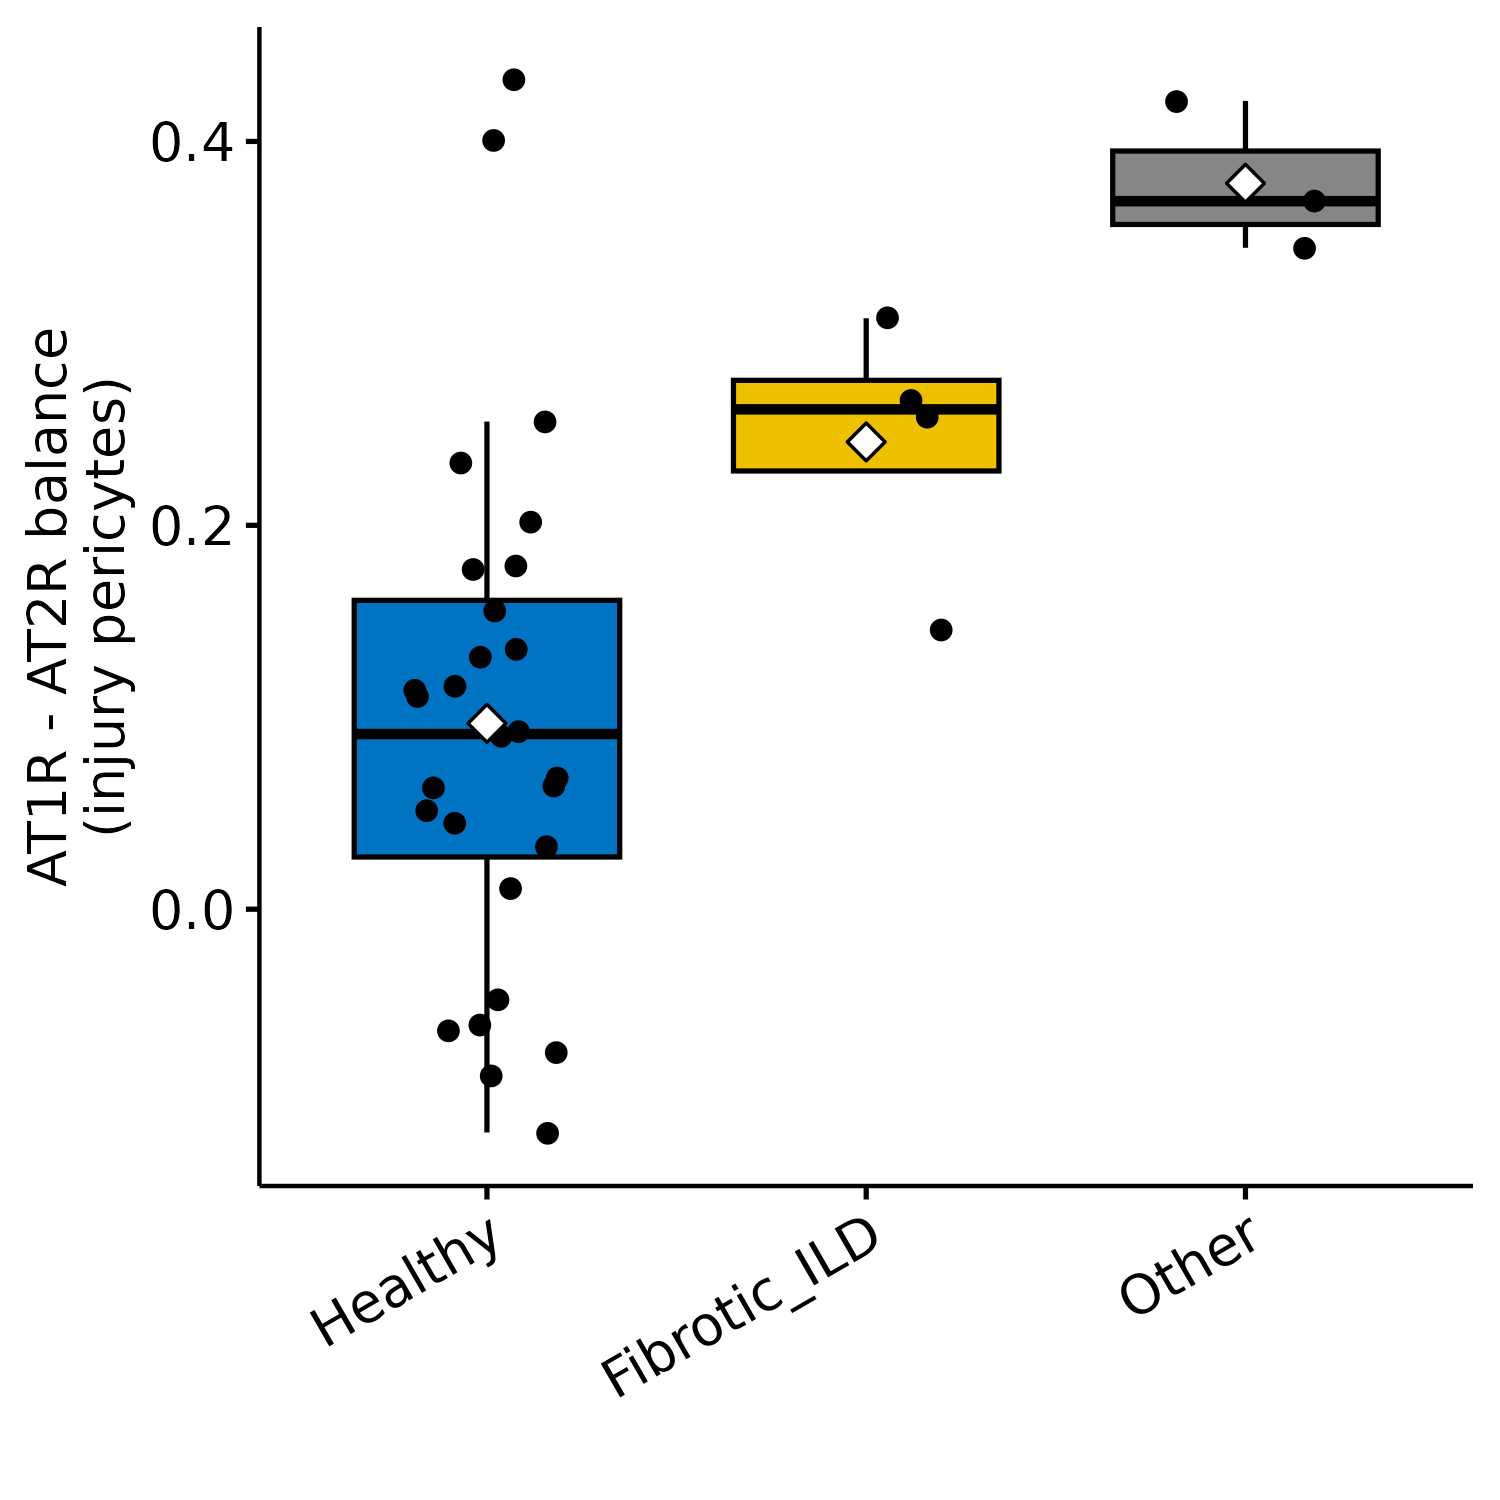
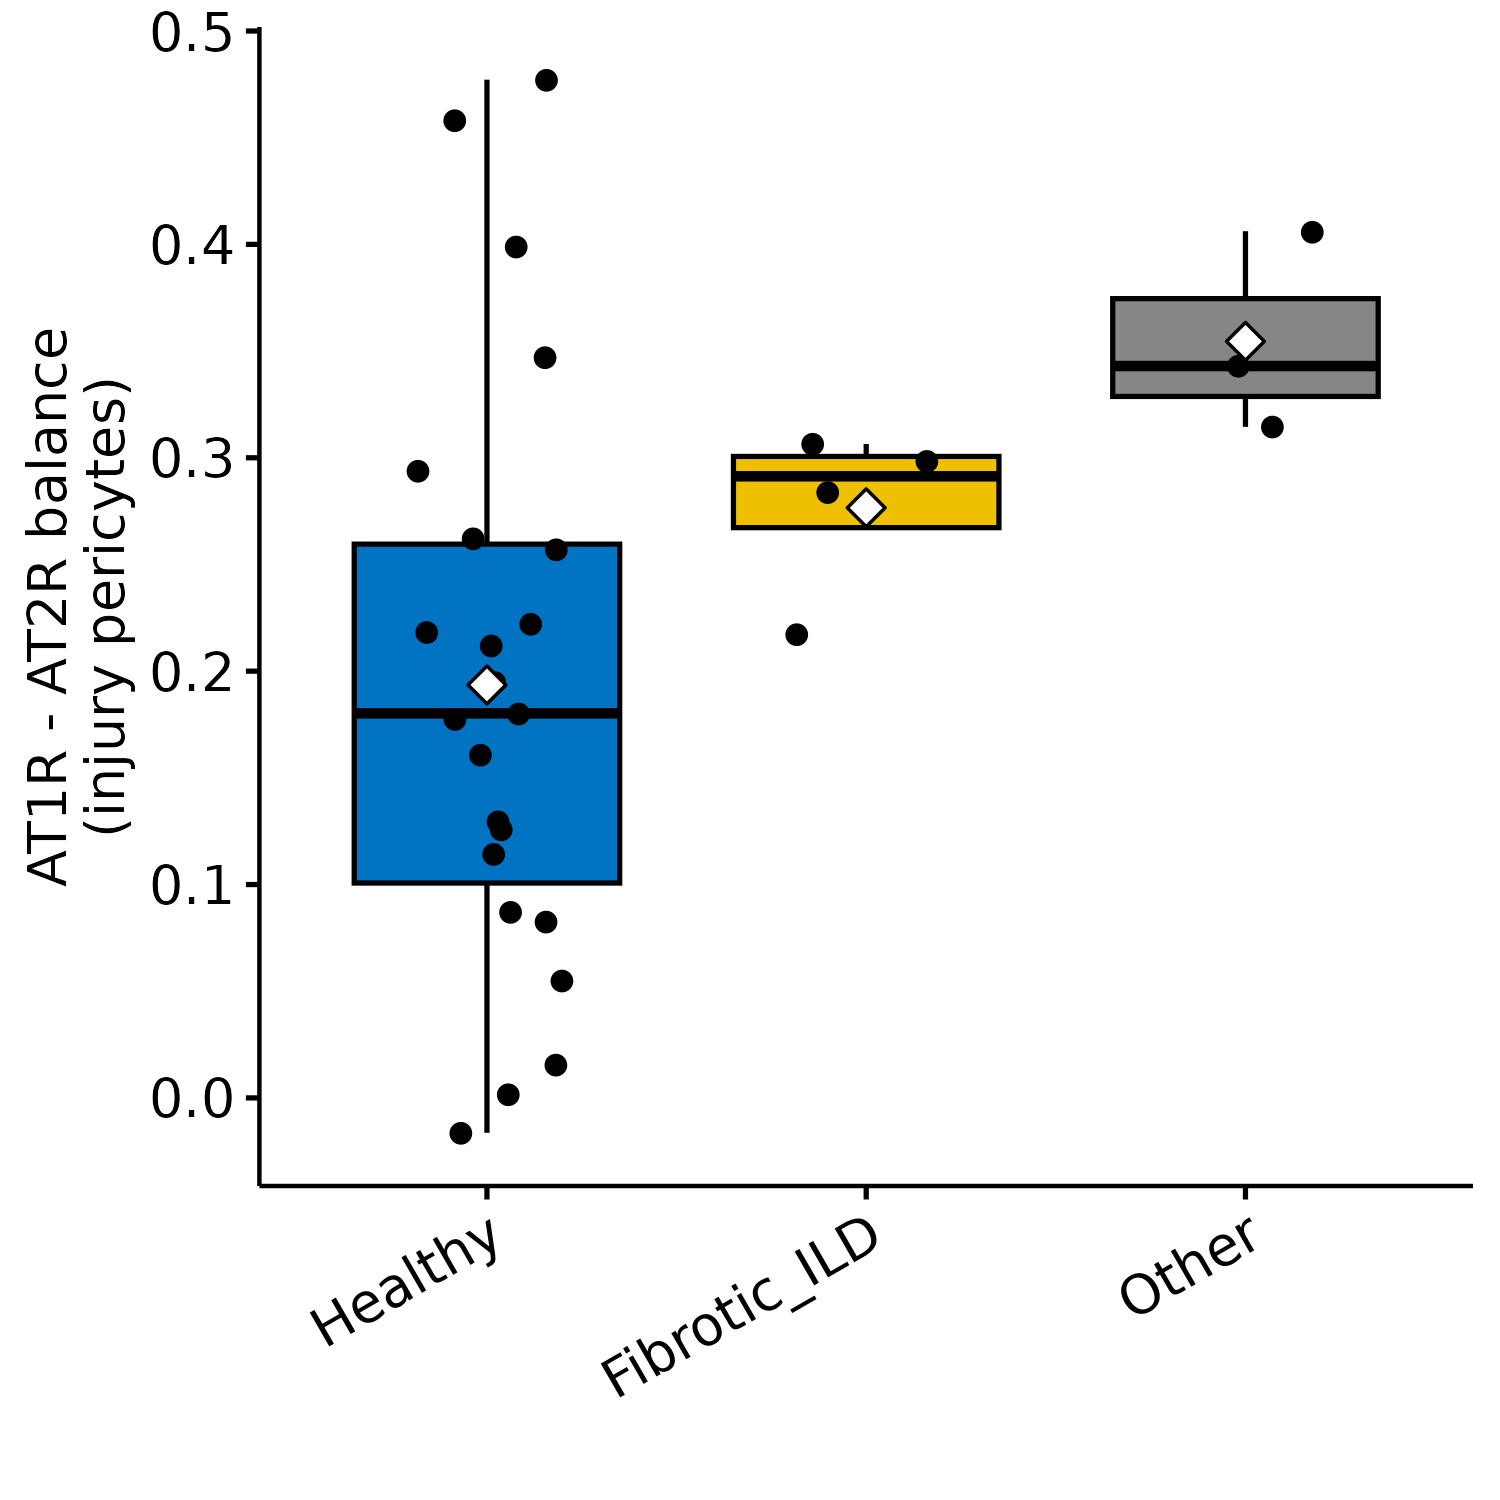
Update for the BM panel for the pathway balance

diff --git a/pathway_balance/_h/00.pathway_balance.py b/pathway_balance/_h/00.pathway_balance.py
@@ -94,7 +94,16 @@ def main():
         "self_reported_ethnicity", "age_or_mean_of_age_range", "leiden_pericytes",
         "dataset", "study", "pericyte_state", "state_program",
         "AT1R_score", "AT2R_score",
-        "AT1R_AT2R_balance", "AGTR1_expr", "AGTR2_expr"] if c in adata.obs.columns]
+        "AT1R_AT2R_balance", "AGTR1_expr", "AGTR2_expr",
+        # Injury-program scores are exported so 01.balance_stats.R can select
+        # injury-biased cells CONTINUOUSLY. It previously filtered on
+        # `state_program %in% INJURY_STATES`, which broke once the
+        # basement-membrane panel was added: `fibroblast_like` no longer wins any
+        # cluster, and basement-membrane deposition is a matrix-stabilizing
+        # function rather than an injury program, so it is not folded into the
+        # injury set. The scores themselves are unchanged by that relabelling.
+        "inflammatory_score", "fibroblast_like_score",
+        "activated_migratory_score"] if c in adata.obs.columns]
     adata.obs[keep].to_csv(args.outdir / "pathway_balance_metadata.tsv.gz", sep="\t")
     logging.info(f"Scored balance for {adata.n_obs} cells")
     session_info.show()